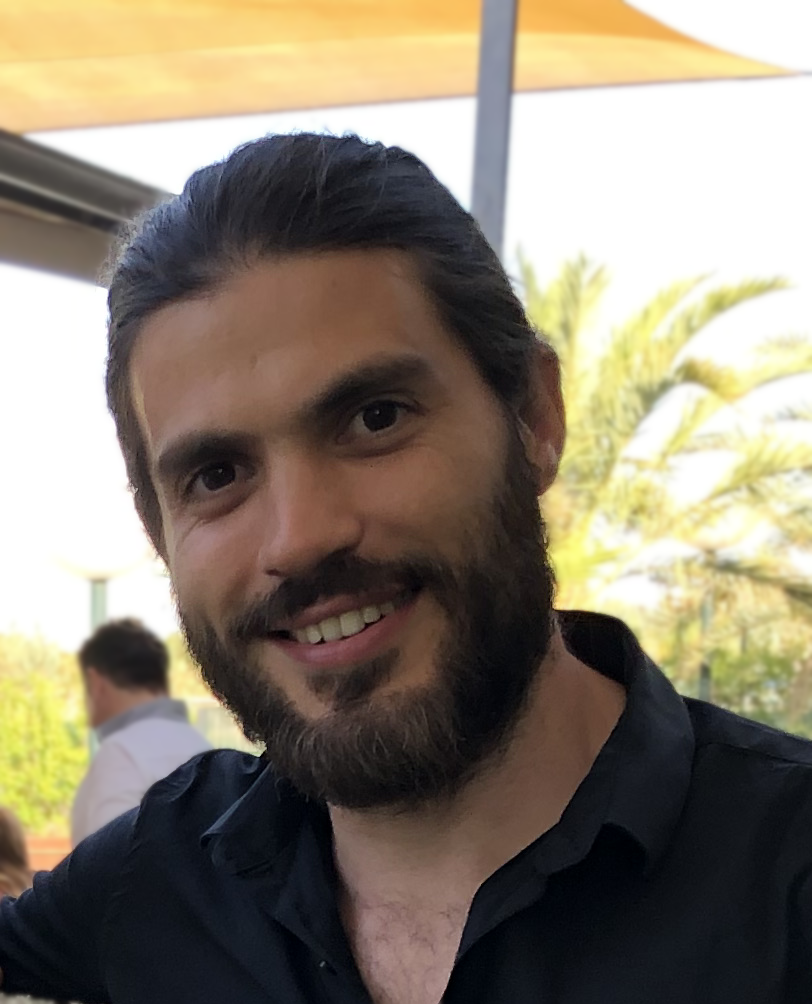
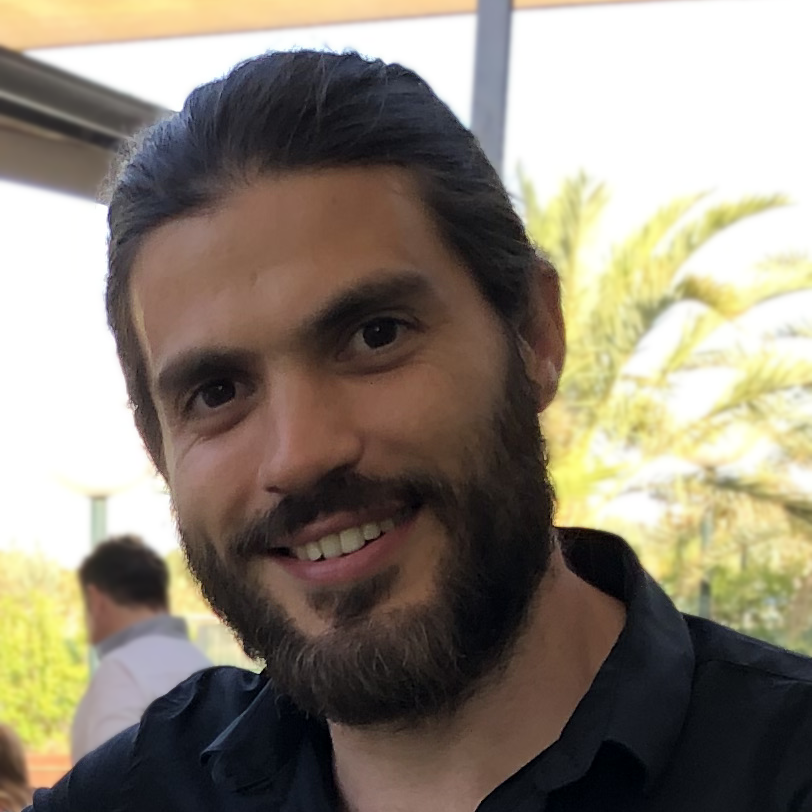
Smaller picture

diff --git a/main.css b/main.css
@@ -49,7 +49,7 @@ a:focus {
 
                 section {
                     padding-top: 25px;
-                    padding-bottom: 25px;
+                    padding-bottom: 45px;
                 }
 
                 .unityblock {
@@ -2476,29 +2476,32 @@ jQuery.mmenu themes extension CSS
                 /* 3.1 Home
 ------------------------------------------------------------------------------*/
                 /* About */
-
-                #about {
+                /* #about {
                     padding-top: 60px;
-                }
-
-                #about figure {
-                    /* float: center; */
-                    /* width: 255px;
+                } */
+                /* #about figure { */
+                /* float: center; */
+                /* width: 255px;
         height: 255px; */
-                    /* width: 150px; */
-                    /* margin: 5px auto 50px; */
-                    /* border: 3px solid #8b8b8b; */
-                    /* overflow: hidden;
+                /* width: 150px; */
+                /* margin: 5px auto 50px; */
+                /* border: 3px solid #8b8b8b; */
+                /* overflow: hidden;
         -webkit-border-radius: 50%;
         border-radius: 50%; */
-                    /* float: none; */
-                    /* width: 25%; */
-                    /* text-align: center; */
-                }
+                /* float: none; */
+                /* width: 25%; */
+                /* text-align: center; */
+                /* } */
 
                 #about img {
-                    width: 255px;
-                    float: none;
+                    width: 200px;
+                    height: auto;
+                    /* max-width: 15%; */
+                    /* width: 10px !important; */
+                    /* height: 10px; */
+                    /* max-width: 10px; */
+                    /* float: none; */
                     /* height: 236; */
                 }
                 /* #about .text {

diff --git a/index.html b/index.html
@@ -84,9 +84,9 @@
     <main role="main">
         <section class="unityblock" id="about">
             <!-- <figure> -->
-            <a href="cv_Vincent_Darrigrand.pdf"> <img src="PhotoPerso.png " class="img-circle img-responsive center-block" alt="photo"></a>
+            <!-- <a href="cv_Vincent_Darrigrand.pdf"> <img src="PhotoPerso.png " class="img-circle img-responsive center-block" alt="photo"></a> -->
             <!-- </figure> -->
-
+            <img src="PhotoPerso.png " class="img-circle center-block" alt="photo">
             <h2>Bio</h2>
 
             <div class="text container">
